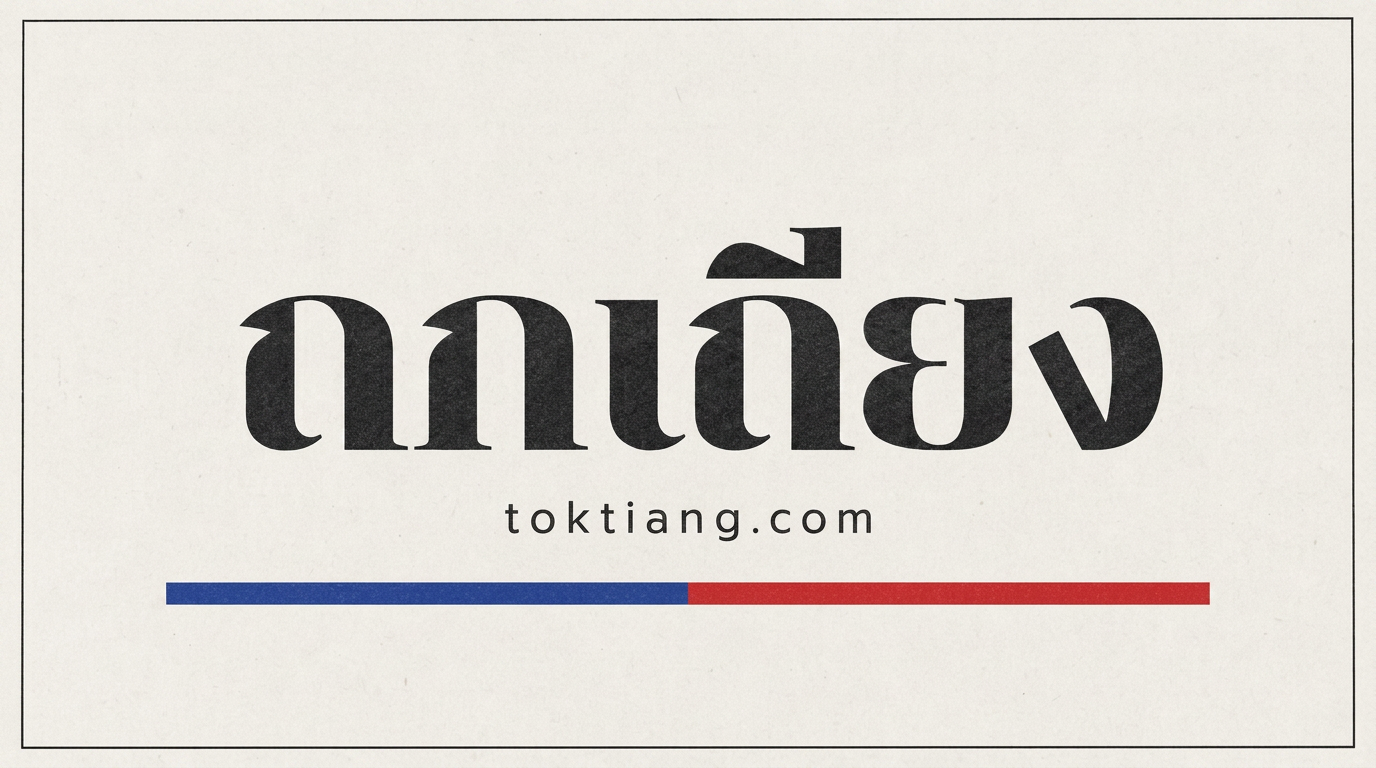
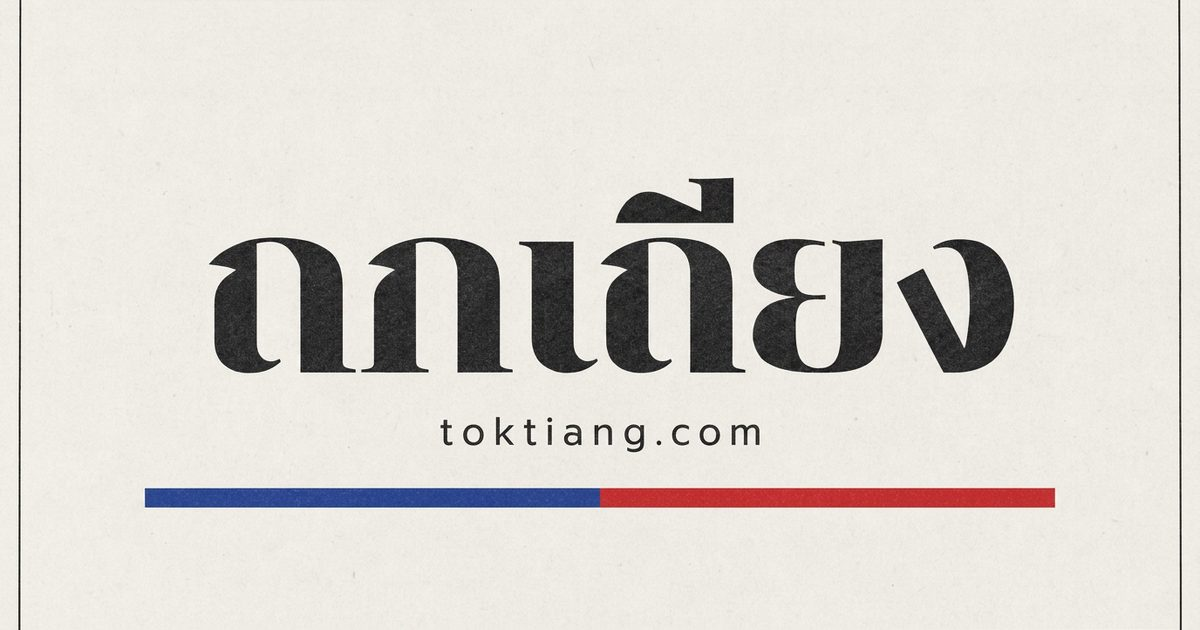
Fix share card, untrack .env, add typecheck and CI
Quick-win pass from the improvement review. Each item is independent.

Share card (public/og-default.jpg): the file was a 1.4 MB PNG carrying a
.jpg extension, so it was served as image/jpeg with PNG bytes — a mismatch
strict OG scrapers can reject, and LINE's fetcher is strict. Re-encoded as a
real progressive JPEG at the conventional 1200x630 (1,421,388 -> 67,203
bytes). seoTags() now also emits og:image:width/height/type, but only for the
default card: a topic cover is uploaded art of arbitrary size, and declaring
the wrong dimensions is worse than declaring none.

apple-touch-icon: was pointing at the 64x61 transparent favicon, which iOS
upscales and composites onto black. Added a 180x180 opaque icon.

.env was tracked in git. It holds only publishable keys, so this is not a
leak, but it is the wrong default for the next variable someone adds.
Untracked it, added .env.example, and pointed the README setup step at it.

The 500 page hardcoded lang="en" and English copy on a Thai-default site,
while the translated strings already existed. It now renders Thai with the
English line beneath — the server cannot know the reader's language, since
the preference is client-side only. Kept self-contained; the one new import
is a plain object with no runtime dependencies.

Tooling: added a typecheck script (tsconfig is strict but nothing invoked
it) and format:check, plus a CI workflow running lint, typecheck, format and
[…]

diff --git a/src/lib/error-page.ts b/src/lib/error-page.ts
@@ -1,15 +1,51 @@
+import { th } from "./i18n/th";
+
+/**
+ * The last-resort 500 page, rendered when SSR itself has failed.
+ *
+ * Deliberately self-contained — inline CSS, no app bundle, no React — because
+ * the thing that failed may be the bundle. The one import here is the Thai
+ * dictionary, which is a plain object with no runtime dependencies of its own,
+ * so it costs nothing and keeps this page from being the only surface on a
+ * Thai-first site that speaks English.
+ *
+ * The server cannot know the reader's language: the preference lives in
+ * `localStorage` and is applied after hydration (see `lib/i18n/index.tsx`).
+ * So this renders the site default, Thai, with the English line beneath it for
+ * anyone the default does not fit.
+ */
+
+const EN_TITLE = "This page didn't load";
+const EN_BODY = "Something went wrong on our end. You can try refreshing or head back home.";
+
+/** These strings are ours, not user input — escaped anyway so it stays true. */
+function escapeHtml(value: string): string {
+  return value
+    .replace(/&/g, "&amp;")
+    .replace(/</g, "&lt;")
+    .replace(/>/g, "&gt;")
+    .replace(/"/g, "&quot;");
+}
+
 export function renderErrorPage(): string {
+  const title = escapeHtml(th["error.title"]);
+  const body = escapeHtml(th["error.body"]);
+  const retry = escapeHtml(th["common.tryAgain"]);
+  const home = escapeHtml(th["common.goHome"]);
+
   return `<!doctype html>
-<html lang="en">
+<html lang="th">
   <head>
     <meta charset="utf-8" />
-    <title>This page didn't load</title>
+    <title>${title}</title>
     <meta name="viewport" content="width=device-width, initial-scale=1" />
+    <meta name="robots" content="noindex" />
     <style>
-      body { font: 15px/1.5 system-ui, -apple-system, sans-serif; background: #fafafa; color: #111; display: grid; place-items: center; min-height: 100vh; margin: 0; padding: 1.5rem; }
+      body { font: 15px/1.6 "IBM Plex Sans Thai", system-ui, -apple-system, sans-serif; background: #fafafa; color: #111; display: grid; place-items: center; min-height: 100vh; margin: 0; padding: 1.5rem; }
       .card { max-width: 28rem; width: 100%; text-align: center; padding: 2rem; }
       h1 { font-size: 1.25rem; margin: 0 0 0.5rem; }
       p { color: #4b5563; margin: 0 0 1.5rem; }
+      .alt { font-size: 0.8125rem; color: #6b7280; margin: 1.5rem 0 0; }
       .actions { display: flex; gap: 0.5rem; justify-content: center; flex-wrap: wrap; }
       a, button { padding: 0.5rem 1rem; border-radius: 0.375rem; font: inherit; cursor: pointer; text-decoration: none; border: 1px solid transparent; }
       .primary { background: #111; color: #fff; }
@@ -18,12 +54,13 @@ export function renderErrorPage(): string {
   </head>
   <body>
     <div class="card">
-      <h1>This page didn't load</h1>
-      <p>Something went wrong on our end. You can try refreshing or head back home.</p>
+      <h1>${title}</h1>
+      <p>${body}</p>
       <div class="actions">
-        <button class="primary" onclick="location.reload()">Try again</button>
-        <a class="secondary" href="/">Go home</a>
+        <button class="primary" onclick="location.reload()">${retry}</button>
+        <a class="secondary" href="/">${home}</a>
       </div>
+      <p class="alt" lang="en">${EN_TITLE}. ${EN_BODY}</p>
     </div>
   </body>
 </html>`;

diff --git a/src/lib/site.ts b/src/lib/site.ts
@@ -8,6 +8,13 @@ export const SITE_URL = "https://toktiang.com";
 /** Default share image for pages without a cover of their own. */
 export const DEFAULT_OG_IMAGE = `${SITE_URL}/og-default.jpg`;
 
+/**
+ * Intrinsic size of the default card, in sync with `public/og-default.jpg`.
+ * Declaring these lets a scraper lay the card out without fetching the image
+ * first — otherwise the *first* share of a link often renders without one.
+ */
+const DEFAULT_OG_IMAGE_SIZE = { width: "1200", height: "630", type: "image/jpeg" } as const;
+
 /** Absolute URL for a site-relative path. */
 export function canonical(path = "/"): string {
   return `${SITE_URL}${path.startsWith("/") ? path : `/${path}`}`;
@@ -24,11 +31,22 @@ export function shareImage(url?: string | null): string {
  */
 export function seoTags(path: string, image?: string | null) {
   const url = canonical(path);
+  const resolved = shareImage(image);
   return {
     meta: [
       { property: "og:url", content: url },
-      { property: "og:image", content: shareImage(image) },
-      { name: "twitter:image", content: shareImage(image) },
+      { property: "og:image", content: resolved },
+      { name: "twitter:image", content: resolved },
+      // Only the default card has known dimensions. A topic cover is uploaded
+      // art of arbitrary size, and stating the wrong size is worse than
+      // stating none: the scraper lays out a box the image does not fill.
+      ...(resolved === DEFAULT_OG_IMAGE
+        ? [
+            { property: "og:image:width", content: DEFAULT_OG_IMAGE_SIZE.width },
+            { property: "og:image:height", content: DEFAULT_OG_IMAGE_SIZE.height },
+            { property: "og:image:type", content: DEFAULT_OG_IMAGE_SIZE.type },
+          ]
+        : []),
     ],
     links: [{ rel: "canonical", href: url }],
   };

diff --git a/eslint.config.js b/eslint.config.js
@@ -6,7 +6,8 @@ import reactRefresh from "eslint-plugin-react-refresh";
 import tseslint from "typescript-eslint";
 
 export default tseslint.config(
-  { ignores: ["dist", ".output", ".vinxi"] },
+  // routeTree.gen.ts is generated; .prettierignore already skips it.
+  { ignores: ["dist", ".output", ".vinxi", "src/routeTree.gen.ts"] },
   {
     extends: [js.configs.recommended, ...tseslint.configs.recommended],
     files: ["**/*.{ts,tsx}"],
@@ -33,7 +34,12 @@ export default tseslint.config(
         },
       ],
       "react-refresh/only-export-components": ["warn", { allowConstantExport: true }],
-      "@typescript-eslint/no-unused-vars": "off",
+      // A warning, not an error: it surfaces dead code without blocking a
+      // work-in-progress. Underscore-prefixed names stay intentional.
+      "@typescript-eslint/no-unused-vars": [
+        "warn",
+        { argsIgnorePattern: "^_", varsIgnorePattern: "^_", caughtErrorsIgnorePattern: "^_" },
+      ],
     },
   },
   eslintPluginPrettier,

diff --git a/src/routes/__root.tsx b/src/routes/__root.tsx
@@ -104,7 +104,8 @@ export const Route = createRootRouteWithContext<{ queryClient: QueryClient }>()(
         href: "https://fonts.googleapis.com/css2?family=IBM+Plex+Sans+Thai:wght@400;500;600;700&family=Noto+Serif+Thai:wght@500;600;700;800;900&display=swap",
       },
       { rel: "icon", href: "/favicon.png", type: "image/png" },
-      { rel: "apple-touch-icon", href: "/favicon.png" },
+      // 180x180 and opaque: iOS composites a transparent icon onto black.
+      { rel: "apple-touch-icon", sizes: "180x180", href: "/apple-touch-icon.png" },
     ],
   }),
   shellComponent: RootShell,

diff --git a/src/routes/topic.$id.tsx b/src/routes/topic.$id.tsx
@@ -5,7 +5,7 @@ import { getTopic } from "@/lib/public.functions";
 import { Discussion } from "@/components/Discussion";
 import { useAuth } from "@/hooks/useAuth";
 import { translate as tr, useT } from "@/lib/i18n";
-import { coverSrcSet, COVER_SIZES } from "@/lib/images";
+import { coverSrcSet } from "@/lib/images";
 import { ClosingBadge } from "@/components/TopicDeadline";
 import { seoTags } from "@/lib/site";
 

diff --git a/src/components/Discussion.tsx b/src/components/Discussion.tsx
@@ -61,7 +61,8 @@ type CommentRow = {
   edited_at?: string | null;
   edit_count?: number;
   parent_id: string | null;
-  /** AI-generated demo account — disclosed with a badge next to the name */
+  /** Set by the synthetic-audience engine. Carried on the row but not
+   *  surfaced anywhere in the UI — see CLAUDE.md before changing that. */
   is_synthetic?: boolean;
 };
 

diff --git a/AGENTS.md b/AGENTS.md
@@ -1,70 +1,7 @@
-## Resolved Launch Checklist — DO NOT RE-APPLY
+# Agent instructions
 
-The following items from the pre-launch audit have already been implemented and verified.
-Do not re-run, re-apply, or undo these fixes unless the user explicitly asks for a change.
+This project keeps one set of agent instructions, in [`CLAUDE.md`](./CLAUDE.md).
 
-### Blockers (resolved)
-
-1. **Bot tick endpoint no longer public.** `src/routes/api/public/bots/tick.ts` now authenticates against a dedicated `BOT_TICK_SECRET` via `x-bot-tick-secret` or `Authorization: Bearer`, using a timing-safe comparison. The Supabase publishable key is no longer accepted.
-2. **Cron job points to the production apex domain.** The `bot-audience-tick` job posts to `https://toktiang.com/api/public/bots/tick`. The secret is pulled from a private `public.app_settings` table at runtime; no plaintext secret remains in migration files.
-3. **Production environment variables confirmed.** `AI_GATEWAY_API_KEY`, `SUPABASE_SERVICE_ROLE_KEY`, and the five `R2_*` variables are set in the server environment.
-4. **Build verified.** `bun run build` and `tsgo --noEmit` pass locally.
-
-### Should fix before opening the doors (resolved)
-
-5. **Open Graph / Twitter cards.** `src/lib/site.ts` provides `seoTags()`. `og:image` and `twitter:image` are wired into `__root.tsx`, `index.tsx`, `browse.tsx`, and `topic.$id.tsx` (topic pages use their own `cover_image_url`). A default share card exists at `/og-default.jpg`.
-6. **Canonical URLs and sitemap.** Canonical links and `og:url` are present on all public routes. `/sitemap.xml` is generated from published topics and listed in `public/robots.txt`.
-7. **Locale tags.** `__root.tsx` declares both `th_TH` and `en_US` as available locales; the EN/TH toggle is respected.
-8. **Terms and privacy pages.** Bilingual `/terms` and `/privacy` pages exist via `src/components/LegalPage.tsx`.
-9. **Bot disclosure removed.** All AI badges, footer notices, and About/Terms sections referencing the synthetic audience have been removed per the user's request.
-10. **Auth redirect allow-list.** Requires adding `https://toktiang.com` and `https://www.toktiang.com` to the Supabase auth redirect allow-list; this is a dashboard configuration step that must be done by the user/owner before launch.
-
-### Notes for future agents
-
-- Do not add new bot/AI disclosures without asking the user first; the current stance is to keep them removed.
-- Do not rotate the `BOT_TICK_SECRET` or change the cron URL without a clear reason.
-- The `refresh_trending_scores` cron runs every minute; monitor its cost as the topic count grows.
-
-## Performance: edge caching for public reads (2026-08-25)
-
-`src/lib/public.functions.ts` fetches through a Supabase client whose `fetch` passes
-Cloudflare `cf: { cacheTtl, cacheEverything: true }` options. This moves repeat public
-reads off the worker isolate (cold isolates were adding ~1.2s TTFB from TLS handshakes).
-
-Current TTLs — keep these unless asked to change:
-
-- Feed / topic detail / headliners: 30s
-- Taxonomy (categories, tags): 5m
-- Vote counts for anonymous visitors: 5s
-- Signed-in requests: cache bypassed entirely, so votes and comments show up immediately
-
-Related: `src/server.ts` sets `s-maxage=30, stale-while-revalidate=300` on public HTML
-documents, and signed-in users bypass that document cache too.
-
-Rules for future agents:
-
-- Do not add caching to any read that can return per-user state.
-- Do not raise the anonymous vote-count TTL above a few seconds; the split bar must feel live.
-- If a public read looks stale in the preview, check for an auth session first before
-  changing TTLs.
-
-## Auth event storm on tab refocus (2026-08-25)
-
-Symptom: switching away from the tab and back left the app stuck on loading skeletons,
-with a burst of duplicate auth + notification requests in the network log.
-
-Cause: Supabase's auth client re-emits `SIGNED_IN` (and token-refresh) events whenever
-the tab regains focus, even when the session never changed. `src/routes/__root.tsx`
-reacted to every event with `router.invalidate()` + `queryClient.invalidateQueries()`,
-refetching every active query at once.
-
-Fix: `src/routes/__root.tsx` keeps the last known user id in a ref and ignores
-`SIGNED_IN` / `SIGNED_OUT` events when the id is unchanged. Only a real identity change
-triggers invalidation.
-
-Rules for future agents:
-
-- Never invalidate the router or the whole query cache directly from `onAuthStateChange`
-  without first comparing the user id to the previous one.
-- If you add new auth-driven refresh logic, verify it by focusing another tab and
-  returning: there should be no refetch burst.
+`AGENTS.md` and `CLAUDE.md` were previously byte-identical copies, which meant an
+edit to one silently left the other as stale guidance. Read `CLAUDE.md`, and make
+any changes there.

diff --git a/README.md b/README.md
@@ -158,9 +158,10 @@ bun install
 bun run dev
 ```
 
-Copy `.env` values for `VITE_SUPABASE_URL`, `VITE_SUPABASE_PUBLISHABLE_KEY` and
-`VITE_SUPABASE_PROJECT_ID` (plus their non-prefixed server twins) before starting
-the dev server. Server-only secrets — `SUPABASE_SERVICE_ROLE_KEY`, the `R2_*`
+Copy `.env.example` to `.env` and fill in `VITE_SUPABASE_URL`,
+`VITE_SUPABASE_PUBLISHABLE_KEY` and `VITE_SUPABASE_PROJECT_ID` (plus their
+non-prefixed server twins) before starting the dev server. `.env` is not tracked
+in git. Server-only secrets — `SUPABASE_SERVICE_ROLE_KEY`, the `R2_*`
 variables and `BOT_TICK_SECRET` — live in the deployment environment, never in
 the repository.
 
